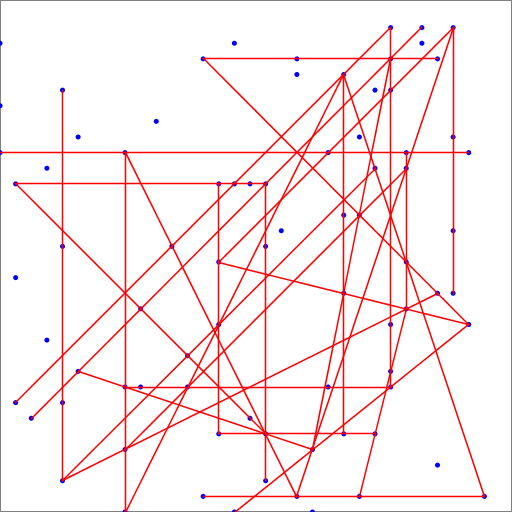
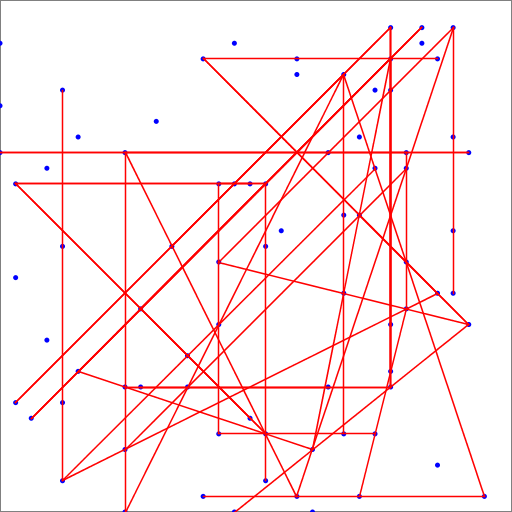
Re-implemented "brute" without maps

diff --git a/week3/src/BruteCollinearPoints.java b/week3/src/BruteCollinearPoints.java
@@ -2,9 +2,8 @@ import edu.princeton.cs.algs4.StdOut;
 
 import java.util.ArrayList;
 import java.util.Arrays;
-import java.util.HashMap;
+import java.util.Comparator;
 import java.util.List;
-import java.util.Map;
 
 /**
  *  Princeton/Coursera Algorithms Part 1
@@ -54,32 +53,12 @@ public class BruteCollinearPoints {
     private final LineSegment[] segments;
 
     /**
-     *  Composite key used to find longest segments including a point
+     *  Functional interface to enable processing via lambda expression
+     *  @param <T> type of argument consumed
      */
-    private class PointSlope {
-
-        /** point */
-        final Point p;
-
-        /** slope of a segment passing through the point */
-        final double s;
-
-        PointSlope(final Point p, final double s) {
-            this.p = p;
-            this.s = s;
-        }
-
-        public int hashCode() {
-            return p.hashCode() + Double.hashCode(s);
-        }
-
-        public boolean equals(final Object o) {
-            if (!(o instanceof PointSlope)) {
-                return false;
-            }
-            final PointSlope otherPs = (PointSlope) o;
-            return p.equals(otherPs.p) && s == otherPs.s;
-        }
+    @FunctionalInterface
+    private interface Consumer<T> {
+        void accept(T t);
     }
 
     /**
@@ -104,62 +83,83 @@ public class BruteCollinearPoints {
         Arrays.sort(points);    // sort the points in ascending order
 
         // check for repeated points
-        for (int p = 0; p < points.length - 1; p++) {
-            if (points[p].compareTo(points[p + 1]) == 0) {
+        identifyRuns(
+            points,
+            Point::compareTo,
+            2,
+            r -> {
                 throw new IllegalArgumentException("repeated point");
             }
-        }
+        );
 
         // find all sets of 4 collinear points via brute force permutation
 
-        final Map<PointSlope, Point> maxPtSlopeSegs = new HashMap<>();
+        final List<Point[]> colPointsList = new ArrayList<>();
         for (int p = 0; p < points.length - 3; p++) {
+
             final Point pointP = points[p];
 
             for (int q = p + 1; q < points.length - 2; q++) {
+
                 final Point pointQ = points[q];
+                final double p2qSlope = pointP.slopeTo(pointQ);
 
                 for (int r = q + 1; r < points.length - 1; r++) {
-                    final Point pointR = points[r];
 
-                    final double p2qSlope = pointP.slopeTo(pointQ);
+                    final Point pointR = points[r];
                     if (p2qSlope != pointP.slopeTo(pointR)) {
                         continue;
                     }
 
                     for (int s = r + 1; s < points.length; s++) {
-                        final Point pointS = points[s];
 
+                        final Point pointS = points[s];
                         if (p2qSlope != pointP.slopeTo(pointS)) {
                             continue;
                         }
 
-                        final PointSlope ps = new PointSlope(pointP, p2qSlope);
-                        final Point psMaxPt = maxPtSlopeSegs.get(ps);
-                        if (psMaxPt == null || psMaxPt.compareTo(pointS) < 0) {
-                            maxPtSlopeSegs.put(ps, pointS);
-                        }
+                        final Point[] colPoints = { pointP, pointS };
+                        Arrays.sort(colPoints);
+                        colPointsList.add(colPoints);
+
                     }
                 }
             }
         }
 
-        // construct the longest line segment(s) using the minimum points
-        final Map<PointSlope, Point> minPtSlopeSegs = new HashMap<>();
-        for (final Map.Entry<PointSlope, Point> e : maxPtSlopeSegs.entrySet()) {
-            final PointSlope ps = new PointSlope(e.getValue(), e.getKey().s);
-            final Point psMinPt = minPtSlopeSegs.get(ps);
-            if (psMinPt == null || psMinPt.compareTo(e.getKey().p) > 0) {
-                minPtSlopeSegs.put(ps, e.getKey().p);
-            }
+        // make an array out of "colPointsList"
+        final Point[][] colPointsArray = new Point[colPointsList.size()][];
+        for (int i = 0; i < colPointsArray.length; i++) {
+            colPointsArray[i] = colPointsList.get(i);
         }
 
-        // construct the longest line segment(s) using the maximum points
+        // add a line segment for each unique set of points in "colPointsArray"
         final List<LineSegment> foundSegments = new ArrayList<>();
-        for (final Map.Entry<PointSlope, Point> e : minPtSlopeSegs.entrySet()) {
-//            StdOut.printf("\n%s-%s", e.getKey().p, e.getValue());
-            foundSegments.add(new LineSegment(e.getKey().p, e.getValue()));
-        }
+        identifyRuns(
+            colPointsArray,
+            (l0, l1) -> {
+                final int l0Size = l0.length;
+                final int l1Size = l1.length;
+                for (int i = 0; i < Math.min(l0Size, l1Size); i++) {
+                    final int pc = l0[i].compareTo(l1[i]);
+                    if (pc != 0) {
+                        return pc;
+                    }
+                }
+                return Integer.compare(l0Size, l1Size);
+            },
+            1,
+            r -> {
+                final Point[] colPoints = r[0];
+//                StdOut.printf("\ncpl(%s),", Arrays.asList(colPoints));
+                foundSegments.add(
+                    new LineSegment(
+                        colPoints[0],
+                        colPoints[colPoints.length - 1]
+                    )
+                );
+            }
+        );
 
         // return all found segments
         segments = foundSegments.toArray(new LineSegment[0]);
@@ -179,6 +179,60 @@ public class BruteCollinearPoints {
     public LineSegment[] segments() {
         return segments.clone();
     }
+
+
+    //
+    //  Private class methods
+    //
+
+    /**
+     *  @param inputArray subject array
+     *  @param comparator used to sort a copy of {@code inputArray}
+     *  in order to detect "runs" of "equal" elements
+     *  @param minRunsize minimum size of a "run"
+     *  @param callback callback to receive each detected "run"
+     *  @param <T> type of array
+     */
+    private static <T> void identifyRuns(
+        final T[] inputArray,
+        final Comparator<T> comparator,
+        final int minRunsize,
+        final Consumer<T[]> callback
+    ) {
+
+        if (inputArray == null || inputArray.length == 0) {
+	        return;
+        }
+
+        final T[] sortedArray = inputArray.clone();
+        Arrays.sort(sortedArray, comparator);
+
+		int start = 0;
+	    T cv = sortedArray[0];
+
+		for (int end = 0; end < sortedArray.length; end++) {
+		    if (cv != null && comparator.compare(cv, sortedArray[end]) == 0) {
+		        // running
+		        continue;
+            }
+            if (end - start >= minRunsize) {
+		        callback.accept(Arrays.copyOfRange(sortedArray, start, end));
+            }
+            start = end;
+		    cv = sortedArray[end];
+        }
+
+        if (sortedArray.length - start >= minRunsize) {
+            callback.accept(
+                Arrays.copyOfRange(sortedArray, start, sortedArray.length)
+            );
+        }
+	}
+
+
+    //
+    //  Public class methods
+    //
 
     /**
      *  Performs basic edge-case testing

diff --git a/week3/src/FastCollinearPoints.java b/week3/src/FastCollinearPoints.java
@@ -4,7 +4,6 @@ import java.util.ArrayList;
 import java.util.Arrays;
 import java.util.Comparator;
 import java.util.List;
-import java.util.function.Consumer;
 
 /**
  *  Princeton/Coursera Algorithms Part 1
@@ -65,6 +64,15 @@ public class FastCollinearPoints {
 
     /* line segment instances being managed */
     private final LineSegment[] segments;
+
+    /**
+     *  Functional interface to enable processing via lambda expression
+     *  @param <T> type of argument consumed
+     */
+    @FunctionalInterface
+    private interface Consumer<T> {
+        void accept(T t);
+    }
 
     /**
      *  Finds all maximal sets of n > 4 collinear points
